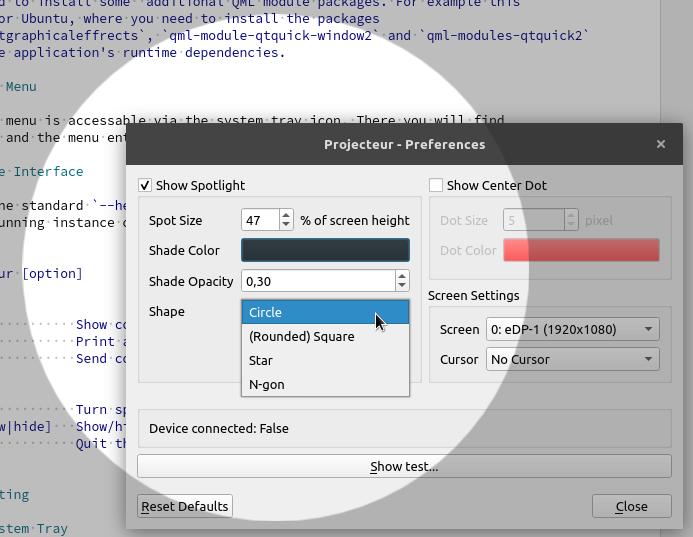
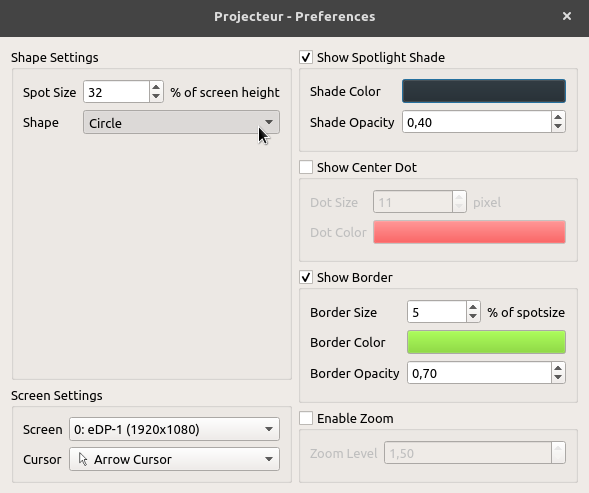
Update screenshots.

diff --git a/README.md b/README.md
@@ -24,8 +24,11 @@ So here it is: a Linux application for the Logitech Spotlight.
   * Zoom (magnifier) functionality.
 * Multiple screen support
 
-![Settings](./doc/screenshot-settings.png)
-![Settings](./doc/screenshot-traymenu.png)
+### Screenshots
+
+[<img src="doc/screenshot-settings.png" height="300" />](./doc/screenshot-settings.png)
+[<img src="doc/screenshot-spot.png" height="300" />](./doc/screenshot-spot.png)
+[<img src="doc/screenshot-traymenu.png">](./doc/screenshot-traymenu.png)
 
 ### Planned features
 
